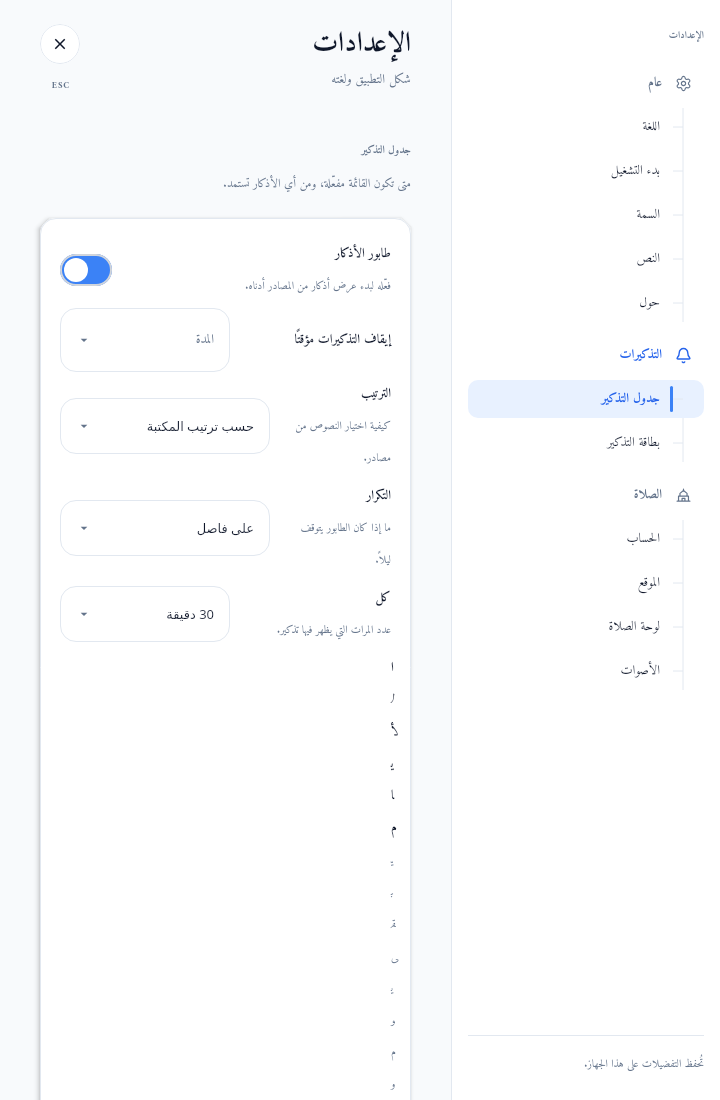
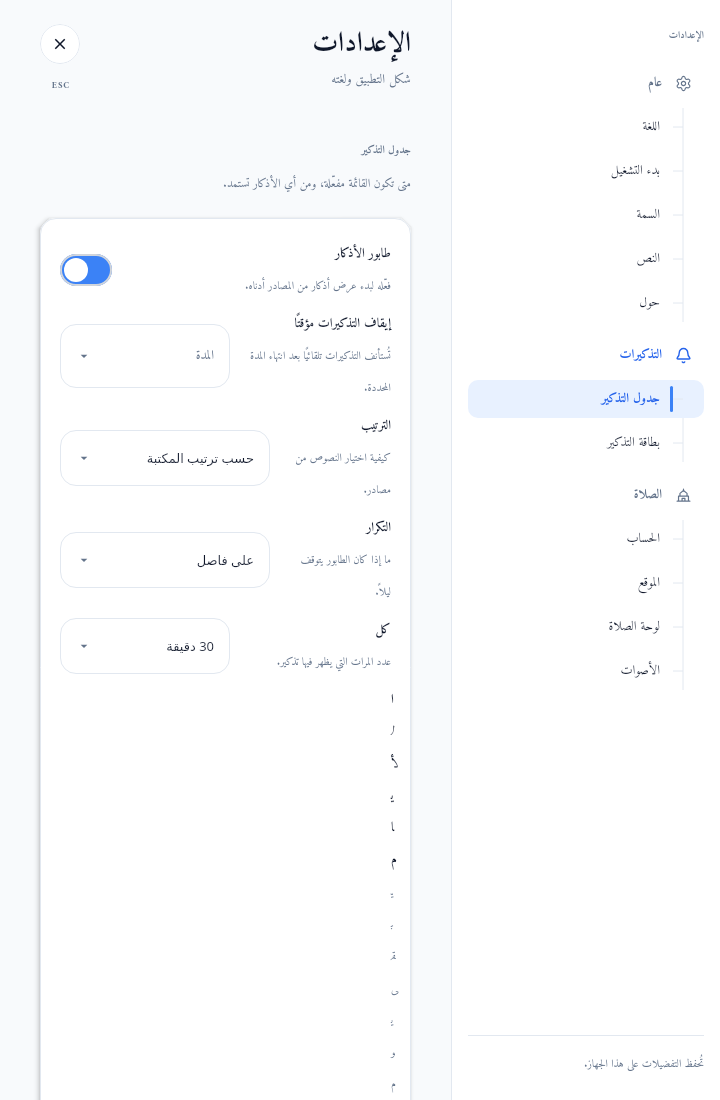
feat(reminders): explain timed pauses in Settings

diff --git a/app/src/main/kotlin/com/azkar/ui/shell/ReminderScheduleSection.kt b/app/src/main/kotlin/com/azkar/ui/shell/ReminderScheduleSection.kt
@@ -32,6 +32,7 @@ import com.azkar.generated.resources.reminderManagerQueueWindowHint
 import com.azkar.generated.resources.reminderManagerQueueWindowLabel
 import com.azkar.generated.resources.reminderManagerQueueWindowStart
 import com.azkar.generated.resources.reminderPauseChooseDuration
+import com.azkar.generated.resources.reminderPauseHint
 import com.azkar.generated.resources.trayMenuPause
 import com.azkar.generated.resources.trayMenuResume
 import com.azkar.ui.components.AzkarDayPicker
@@ -152,7 +153,10 @@ private fun ReminderPauseRow(
 ) {
     val until = rememberQueuePauseUntil(config)
     if (until == null) {
-        SettingRow(label = stringResource(Res.string.trayMenuPause)) {
+        SettingRow(
+            label = stringResource(Res.string.trayMenuPause),
+            hint = stringResource(Res.string.reminderPauseHint),
+        ) {
             AzkarDropdown(
                 selected = null,
                 options = ReminderPauseDuration.entries,
